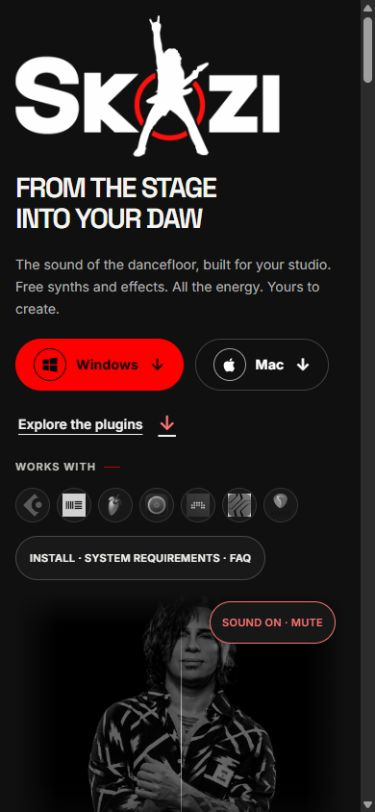
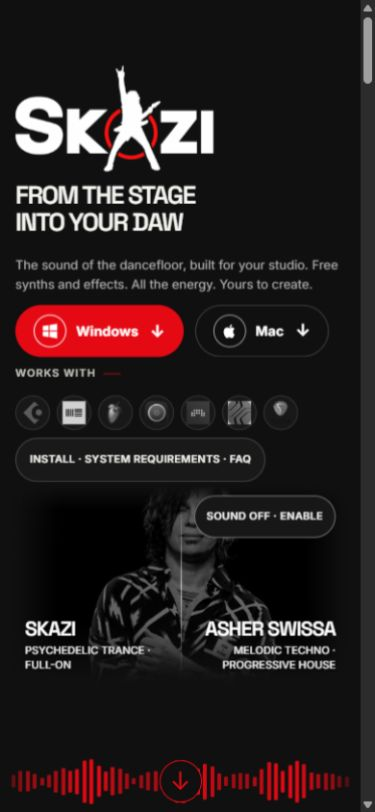
Fill opening viewport with hero and animated red waveform

diff --git a/docs/index.html b/docs/index.html
@@ -310,7 +310,6 @@
           <span class="download-mark"><svg viewBox="0 0 24 24" aria-hidden="true"><path d="M16.6 12.8c0-2.4 2-3.6 2.1-3.7-1.1-1.7-2.9-1.9-3.5-1.9-1.5-.2-2.9.8-3.7.8-.7 0-1.9-.8-3.2-.8-1.6 0-3.1 1-4 2.5-1.7 3-.5 7.3 1.2 9.7.8 1.1 1.7 2.4 2.9 2.4s1.6-.8 3.1-.8 1.8.8 3.1.8 2.1-1.1 2.8-2.3c.8-1.3 1.2-2.6 1.3-2.7-.1 0-2.1-.8-2.1-4zM14.2 5.9c.7-.8 1.1-1.8 1-2.9-.9 0-2 .6-2.7 1.4-.6.7-1.1 1.7-1 2.8 1 .1 2-.5 2.7-1.3z"/></svg></span>
           <span class="txt">Mac</span><span class="download-arrow" aria-hidden="true">↓</span></a>
       </div>
-      <a class="explore-plugins" href="#plugins">Explore the plugins <span aria-hidden="true">↓</span></a>
       <div class="daw-compat" aria-label="Works with Cubase, Ableton Live, FL Studio, Logic Pro, Bitwig Studio, Studio One and Reaper">
         <span class="daw-label">WORKS WITH</span>
         <ul class="daw-icons">
@@ -335,6 +334,7 @@
       <button class="persona-zone persona-zone-asher" type="button" data-persona="asher" aria-label="Asher Swissa, Melodic Techno and Progressive House. Play or pause the track."><span class="persona-caption"><b>ASHER SWISSA</b><small>MELODIC TECHNO · PROGRESSIVE HOUSE</small></span></button>
     </div>
   </div>
+  <a class="hero-wave" href="#plugins" aria-label="Scroll to plugins"><span class="hero-wave-bars" aria-hidden="true"><i style="--bar:18px;--delay:-0.00s"></i><i style="--bar:29px;--delay:-0.13s"></i><i style="--bar:38px;--delay:-0.26s"></i><i style="--bar:45px;--delay:-0.39s"></i><i style="--bar:48px;--delay:-0.52s"></i><i style="--bar:47px;--delay:-0.65s"></i><i style="--bar:42px;--delay:-0.78s"></i><i style="--bar:34px;--delay:-0.91s"></i><i style="--bar:23px;--delay:-1.04s"></i><i style="--bar:24px;--delay:-1.17s"></i><i style="--bar:34px;--delay:-1.30s"></i><i style="--bar:42px;--delay:-1.43s"></i><i style="--bar:47px;--delay:-1.56s"></i><i style="--bar:48px;--delay:-1.69s"></i><i style="--bar:45px;--delay:-1.82s"></i><i style="--bar:38px;--delay:-1.95s"></i><i style="--bar:29px;--delay:-2.08s"></i><i style="--bar:18px;--delay:-2.21s"></i><i style="--bar:29px;--delay:-2.34s"></i><i style="--bar:38px;--delay:-2.47s"></i><i style="--bar:45px;--delay:-2.60s"></i><i style="--bar:48px;--delay:-2.73s"></i><i style="--bar:47px;--delay:-2.86s"></i><i style="--bar:42px;--delay:-2.99s"></i><i style="--bar:34px;--delay:-3.12s"></i><i style="--bar:23px;--delay:-3.25s"></i><i style="--bar:24px;--delay:-3.38s"></i><i style="--bar:34px;--delay:-3.51s"></i><i style="--bar:42px;--delay:-3.64s"></i><i style="--bar:47px;--delay:-3.77s"></i><i style="--bar:48px;--delay:-3.90s"></i><i style="--bar:45px;--delay:-4.03s"></i><i style="--bar:38px;--delay:-4.16s"></i><i style="--bar:28px;--delay:-4.29s"></i><i style="--bar:18px;--delay:-4.42s"></i><i style="--bar:29px;--delay:-4.55s"></i><i style="--bar:39px;--delay:-4.68s"></i><i style="--bar:45px;--delay:-4.81s"></i><i style="--bar:48px;--delay:-4.94s"></i><i style="--bar:47px;--delay:-5.07s"></i><i style="--bar:42px;--delay:-5.20s"></i><i style="--bar:33px;--delay:-5.33s"></i><i style="--bar:23px;--delay:-5.46s"></i><i style="--bar:24px;--delay:-5.59s"></i><i style="--bar:34px;--delay:-5.72s"></i><i style="--bar:42px;--delay:-5.85s"></i><i style="--bar:47px;--delay:-5.98s"></i><i style="--bar:48px;--delay:-6.11s"></i><i style="--bar:45px;--delay:-6.24s"></i><i style="--bar:38px;--delay:-6.37s"></i><i style="--bar:28px;--delay:-6.50s"></i><i style="--bar:19px;--delay:-6.63s"></i><i style="--bar:29px;--delay:-6.76s"></i><i style="--bar:39px;--delay:-6.89s"></i><i style="--bar:45px;--delay:-7.02s"></i><i style="--bar:48px;--delay:-7.15s"></i><i style="--bar:47px;--delay:-7.28s"></i><i style="--bar:42px;--delay:-7.41s"></i><i style="--bar:33px;--delay:-7.54s"></i><i style="--bar:23px;--delay:-7.67s"></i><i style="--bar:24px;--delay:-7.80s"></i><i style="--bar:34px;--delay:-7.93s"></i><i style="--bar:42px;--delay:-8.06s"></i><i style="--bar:47px;--delay:-8.19s"></i><i style="--bar:48px;--delay:-8.32s"></i><i style="--bar:44px;--delay:-8.45s"></i><i style="--bar:38px;--delay:-8.58s"></i><i style="--bar:28px;--delay:-8.71s"></i><i style="--bar:19px;--delay:-8.84s"></i><i style="--bar:30px;--delay:-8.97s"></i><i style="--bar:39px;--delay:-9.10s"></i><i style="--bar:45px;--delay:-9.23s"></i><i style="--bar:48px;--delay:-9.36s"></i><i style="--bar:47px;--delay:-9.49s"></i><i style="--bar:41px;--delay:-9.62s"></i><i style="--bar:33px;--delay:-9.75s"></i><i style="--bar:23px;--delay:-9.88s"></i><i style="--bar:24px;--delay:-10.01s"></i><i style="--bar:35px;--delay:-10.14s"></i><i style="--bar:43px;--delay:-10.27s"></i><i style="--bar:47px;--delay:-10.40s"></i><i style="--bar:48px;--delay:-10.53s"></i><i style="--bar:44px;--delay:-10.66s"></i><i style="--bar:37px;--delay:-10.79s"></i><i style="--bar:28px;--delay:-10.92s"></i><i style="--bar:19px;--delay:-11.05s"></i><i style="--bar:30px;--delay:-11.18s"></i><i style="--bar:39px;--delay:-11.31s"></i><i style="--bar:45px;--delay:-11.44s"></i><i style="--bar:48px;--delay:-11.57s"></i><i style="--bar:47px;--delay:-11.70s"></i><i style="--bar:41px;--delay:-11.83s"></i><i style="--bar:33px;--delay:-11.96s"></i><i style="--bar:22px;--delay:-12.09s"></i><i style="--bar:25px;--delay:-12.22s"></i><i style="--bar:35px;--delay:-12.35s"></i></span><span class="hero-wave-arrow" aria-hidden="true">↓</span></a>
 </header>
 
 <section class="hero-info-panel" id="hero-info-panel" aria-label="Installation and support" hidden>

diff --git a/docs/site-experience.css b/docs/site-experience.css
@@ -194,8 +194,6 @@ footer .wrap{font-size:12px}
 :root{--acid:#e50914;--red:#e50914;--red2:#e50914;--accent-text:#e50914;--glow:rgba(229,9,20,.45)}
 .hero-sound-toggle{position:absolute;z-index:8;top:18px;right:18px;min-height:44px;padding:10px 16px;border:1px solid #777;border-radius:999px;background:#171717;color:#f5f5f5;font:600 12px/1.5 Inter,sans-serif;letter-spacing:.025em;cursor:pointer}
 .hero-sound-toggle[aria-pressed="true"]{border-color:var(--accent-text);background:var(--accent-text);color:#fff}
-.explore-plugins{display:inline-flex;align-items:center;gap:16px;min-height:44px;margin:0 0 4px;padding:8px 3px;color:#f2f2f2;font:600 14px/1.5 Inter,sans-serif;text-decoration:underline;text-underline-offset:5px}
-.explore-plugins span{color:var(--accent-text);font-size:21px}
 #plugins:focus{outline:none}
 #plugins .film-gallery[data-view="grid"] .badge{color:#fff;background:var(--acid);opacity:1;border-color:var(--acid);font-size:11px}
 #plugins .film-gallery .badge.fx{color:#fff;background:var(--acid);border-color:var(--acid);opacity:1}
@@ -218,4 +216,23 @@ footer .wrap{font-size:12px}
  .daw-compat{margin-top:10px}.hero-info-trigger{margin-top:14px}
  .stat{padding:18px 8px}.stats .stat b{font-size:27px}#plugins{padding-top:32px}
 }
-@media(prefers-reduced-motion:reduce){html{scroll-behavior:auto}.hero-sound-toggle,.explore-plugins{transition:none}.intro-pending #site-intro .intro-halo{display:none}}
+@media(prefers-reduced-motion:reduce){html{scroll-behavior:auto}.hero-sound-toggle{transition:none}.intro-pending #site-intro .intro-halo{display:none}}
+/* Full-screen opening with a silent musical scroll cue. */
+.hero{position:relative;min-height:100svh;box-sizing:border-box;padding:24px 0 100px}
+.hero .artist-shot{height:calc(100svh - 124px);min-height:480px;max-height:960px}
+.hero-wave{position:absolute;bottom:0;left:0;width:100%;height:80px;display:flex;align-items:center;justify-content:center;color:var(--acid);overflow:hidden}
+.hero-wave-bars{position:absolute;inset:0;display:flex;align-items:center;justify-content:space-between;gap:5px;padding:0 12px;mask-image:linear-gradient(90deg,transparent,#000 8%,#000 92%,transparent)}
+.hero-wave-bars i{display:block;flex:1;max-width:5px;height:var(--bar);border-radius:999px;background:var(--acid);opacity:.65;transform:scaleY(.35);animation:hero-wave-beat 1.8s ease-in-out var(--delay) infinite alternate}
+.hero-wave-arrow{z-index:1;display:grid;place-items:center;width:44px;height:44px;border:1px solid var(--acid);border-radius:50%;background:#101010;font-size:26px;transition:transform .2s}
+.hero-wave:hover .hero-wave-arrow{transform:translateY(4px)}
+.hero-wave:focus-visible{outline:2px solid #fff;outline-offset:-4px}
+@keyframes hero-wave-beat{to{transform:scaleY(1);opacity:1}}
+@media(min-width:701px) and (max-height:800px){.hero h1.hero-logo{max-width:420px}.hero .artist-shot{min-height:440px}.hero .ctas{margin-top:20px}.hero .lead{font-size:14px}}
+@media(max-width:700px){
+ .hero{padding:16px 0 76px;min-height:100svh}.hero .wrap{gap:4px}
+ .hero h1.hero-logo{max-width:210px;margin-bottom:10px}.hero-statement{font-size:26px}
+ .hero .lead{font-size:13px;line-height:1.5;margin:10px 0}.hero .ctas{margin:12px 0 8px}
+ .hero .artist-shot{height:clamp(180px,25svh,260px);min-height:0}.hero .hero-info-trigger{margin-top:8px}
+ .hero-wave{height:64px}.hero-wave-bars{gap:3px}.hero-wave-bars i:nth-child(even){display:none}
+}
+@media(prefers-reduced-motion:reduce){.hero-wave-bars i{animation:none;transform:scaleY(.55)}.hero-wave-arrow{transition:none}}

diff --git a/docs/site-experience.js b/docs/site-experience.js
@@ -60,7 +60,7 @@
         setEnabled(true);artist.dataset.active=persona;play(persona);
       });
     });
-    document.querySelector('.explore-plugins').addEventListener('click',()=>{
+    document.querySelector('.hero-wave').addEventListener('click',()=>{
       stop();document.getElementById('plugins').focus({preventScroll:true});
     });
     cards.forEach(card=>{

diff --git a/docs/review/QA-FOLLOWUP.md b/docs/review/QA-FOLLOWUP.md
@@ -5,7 +5,7 @@
 - Hero sound is off on every page load. An explicit, labelled toggle enables/mutes it; clicking an artist identity is also an explicit play/pause action. Keyboard focus alone never starts playback. The plugin gallery remains silent.
 - The installation guide receives focus on opening. Close and Escape restore focus to its trigger.
 - The image lightbox makes the background inert and restores focus on Close/Escape. The original PNG is loaded for enlargement, not the compressed thumbnail.
-- A visible Explore the plugins link is available in the first mobile viewport and moves keyboard focus to the labelled gallery. At 390px, the gallery starts around 1,130px rather than 1,409px; the hero is around 927px rather than 1,173px.
+- The opening Hero fills the viewport, with a full-width red animated waveform linking to the gallery and moving keyboard focus there. The former Explore the plugins text link was removed. At 390 x 844, the Hero measures 844px with no horizontal overflow. Short screens can grow to preserve content. Reduced-motion preferences disable waveform animation.
 - Hero and all 15 plugin thumbnails use responsive WebP variants with intrinsic dimensions. Reel mode requests a larger candidate. Existing full-size PNG assets remain available. See image-optimization.json for source and variant sizes: source images total 4,967,572 bytes; small variants total 416,680 bytes (about 92% smaller). This is an asset-size comparison, not a measured page-load-speed claim.
 - Instrument and effect badges use Netflix red (#E50914) with white text. Small artist captions are 11px. Guide and Reel corners now match the rounded design.
 
